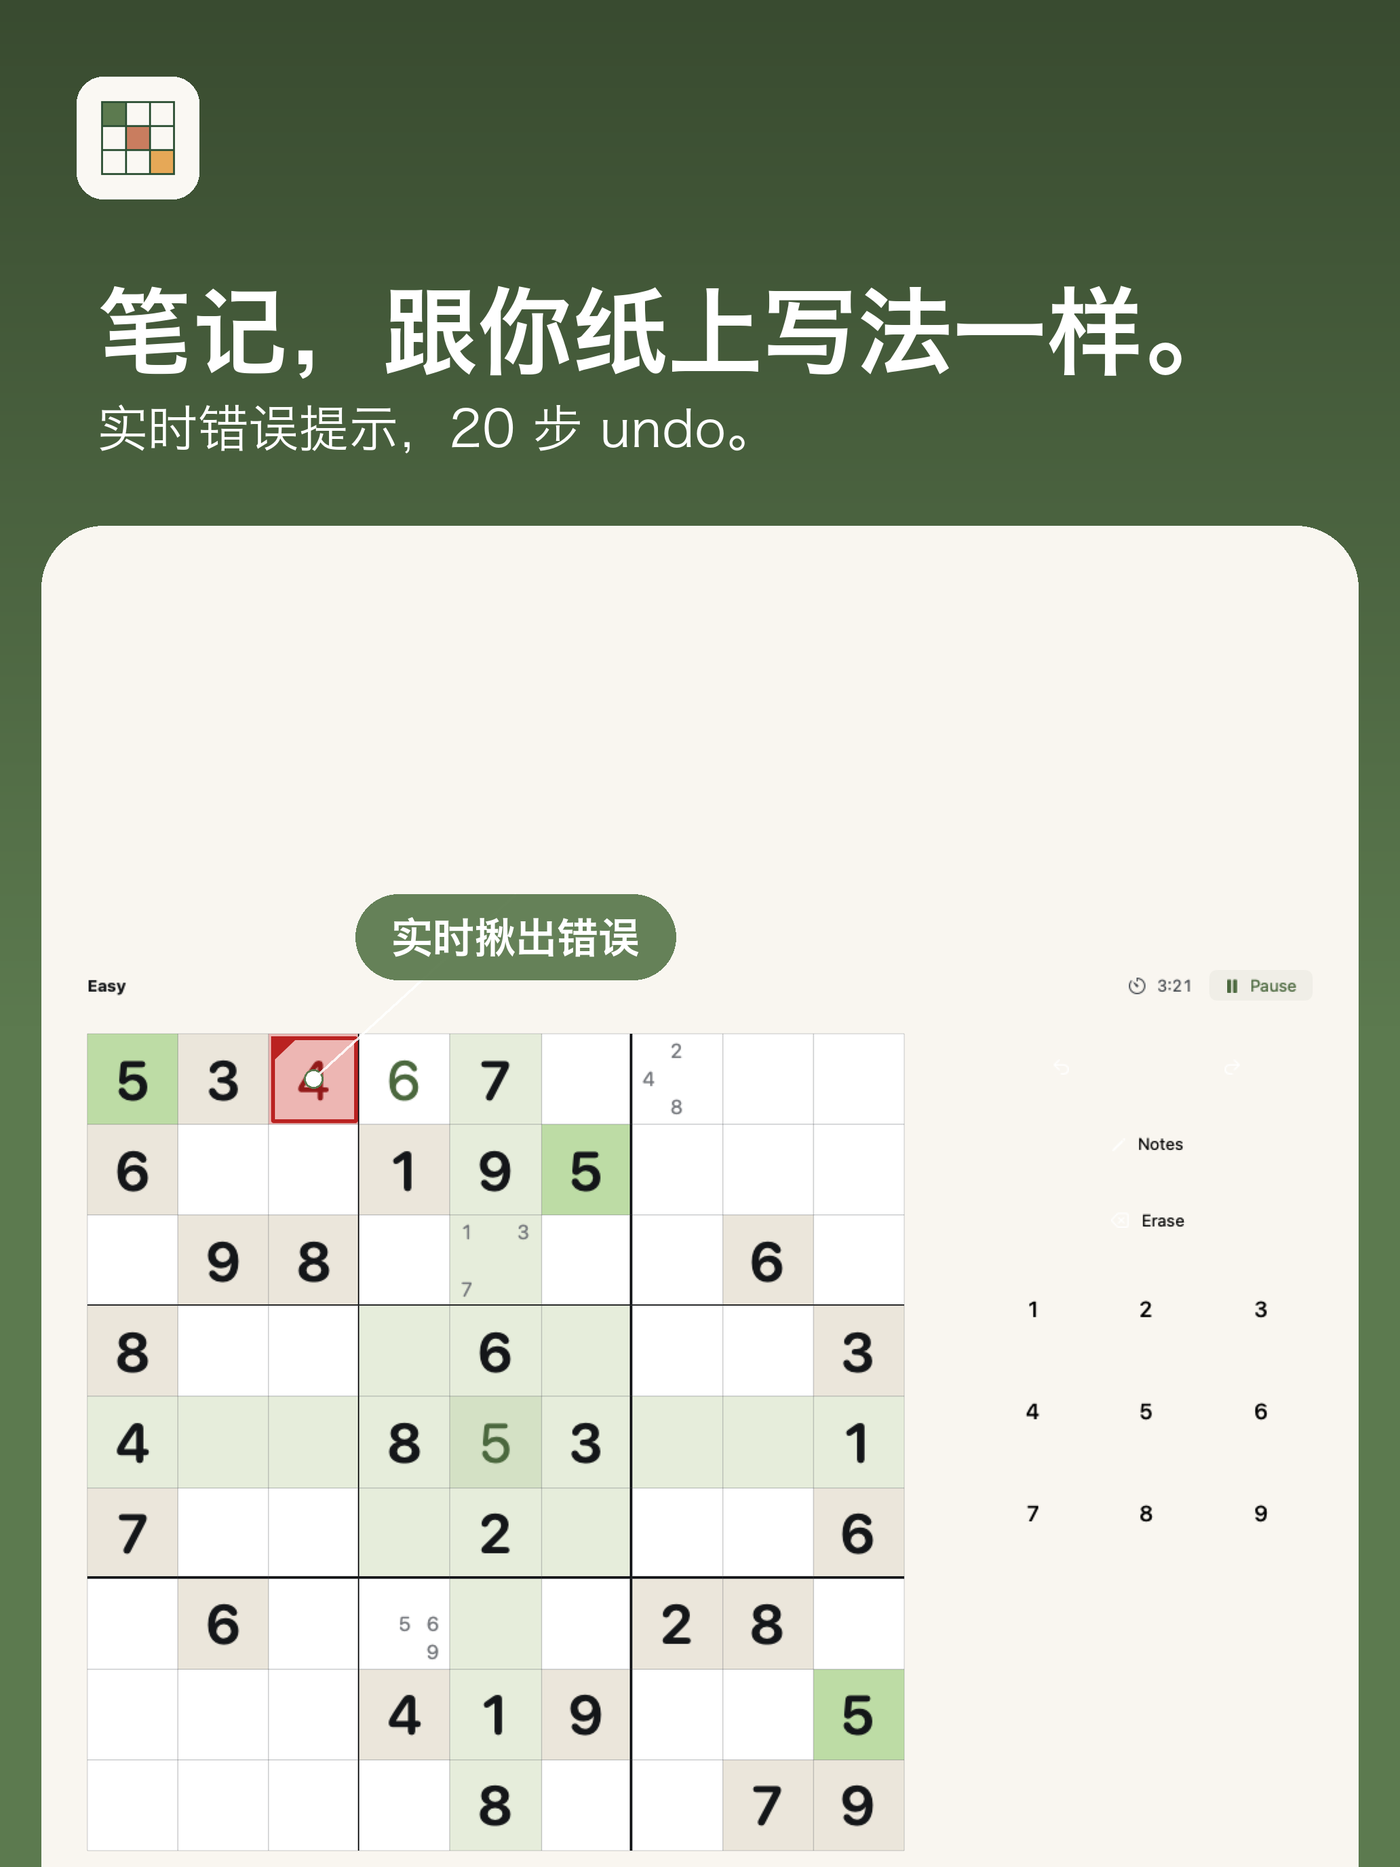
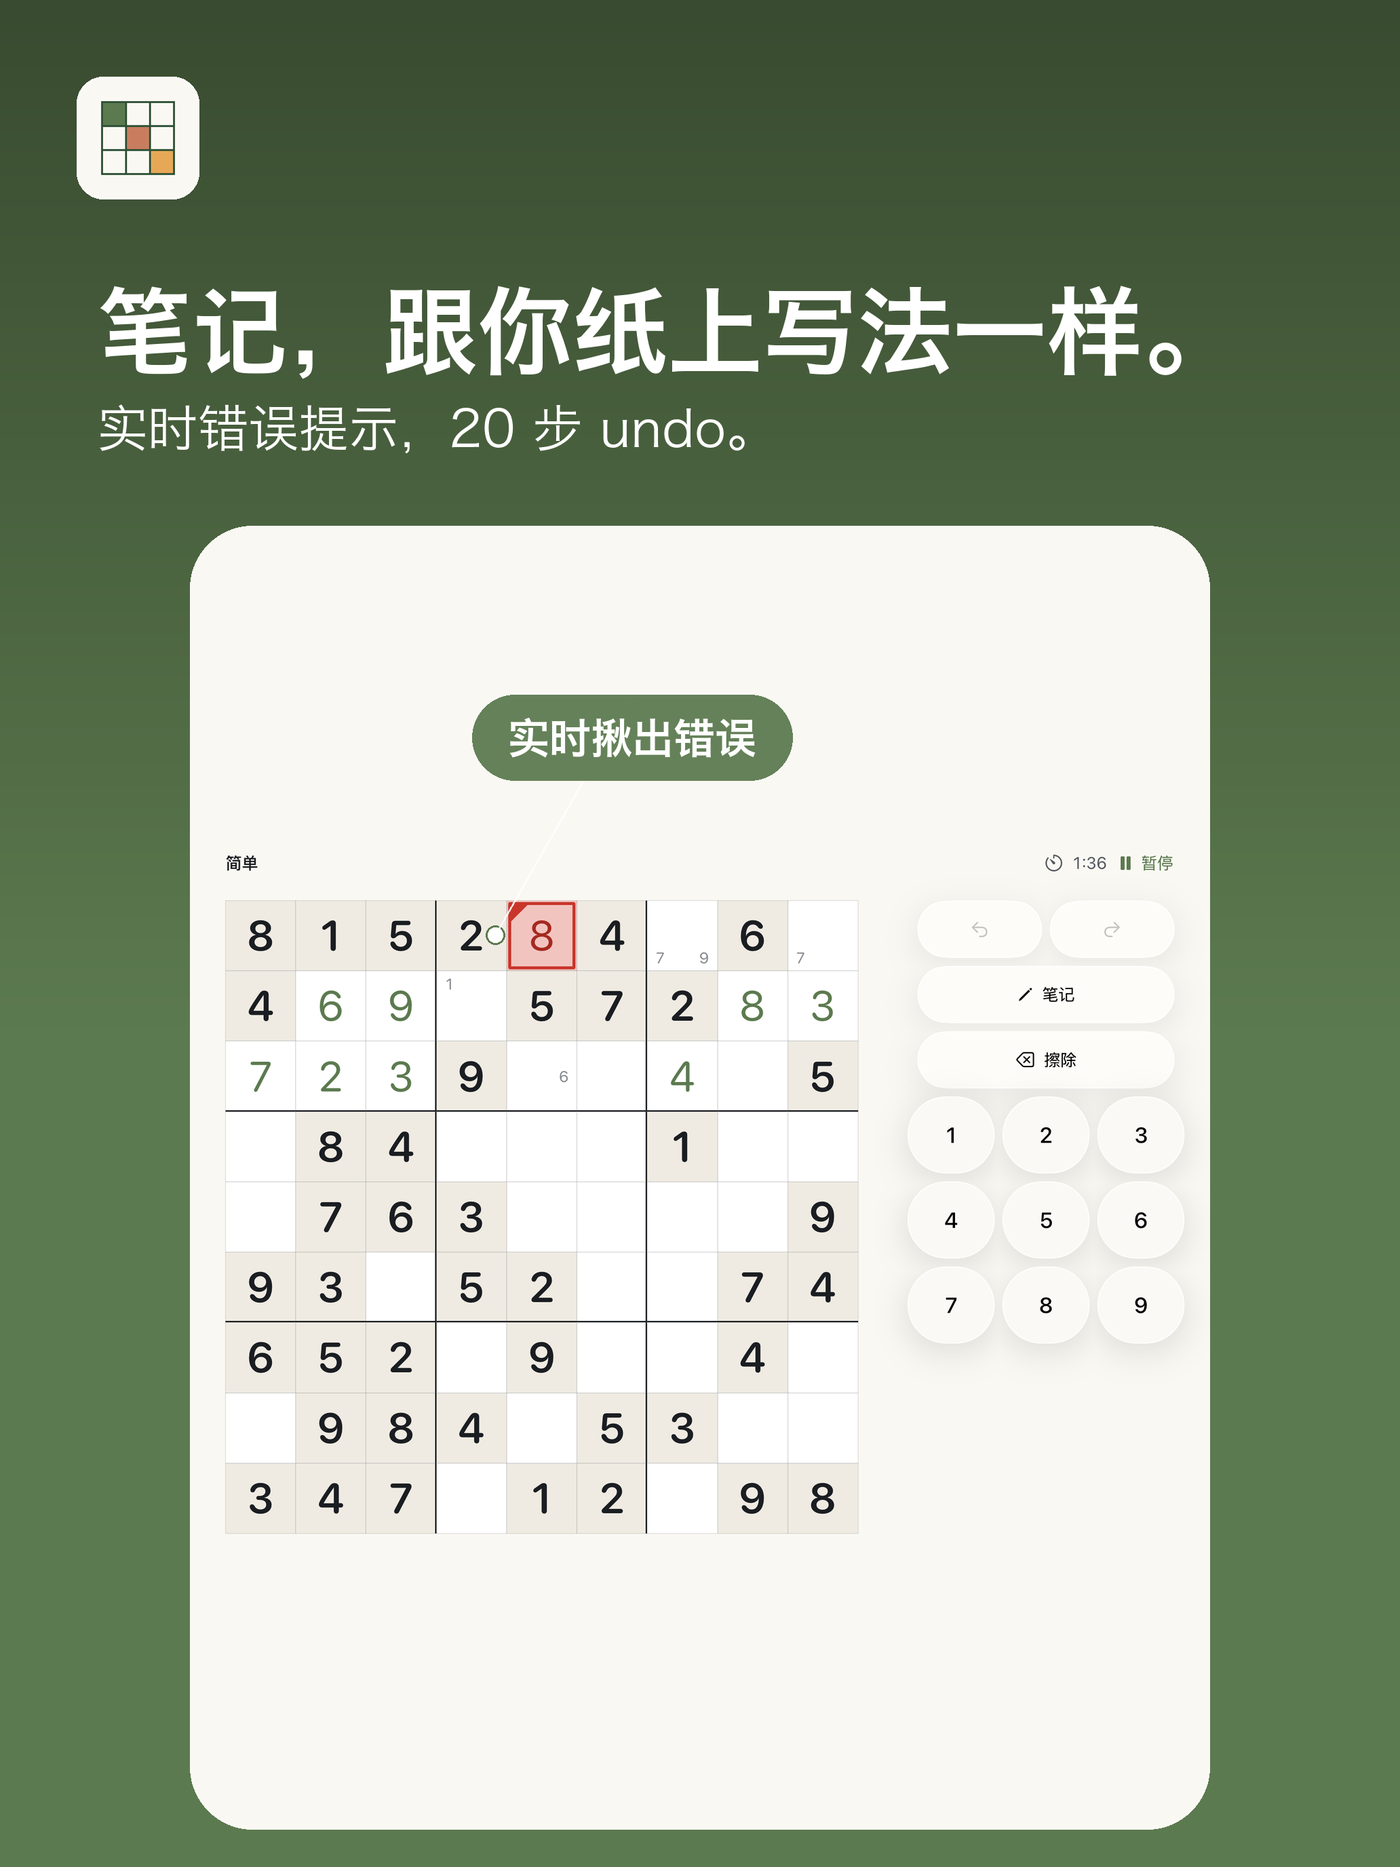
wip(store): fit-height compositor for capture-sourced 03-board (#1054)
Adds CaptureSlot to scripts/build-ascspec-screenshots.py alongside Slot,
repoints sudoku iphone-6.9/ipad-13 and minesweeper iphone-6.9 03-board at
CaptureSlot (docs/app-store/captures/...), keeps minesweeper ipad-13 and
both mac 03-board slots on the snapshot Slot with explanatory comments
(pending #1054 tolerant publish vs #1054-affected per PM ruling).

build_asc_image gains source_kind="capture": fit-height scale (never
crops, may upscale), all 4 corners rounded, pasted at SCREEN_TOP — lands
the whole capture (already safe-area-cropped by mise-tasks/store/capture)
inside the canvas so the glass control cluster is never pushed past the
canvas edge. Verified byte-identical sha256 for all 147 non-03-board
frames across two full regenerations (168 total frames, exactly 21
changed both times).

CALLOUTS for the 3 affected (app,device) 03-board cells re-measured
against the new capture source (pixel-scanned anchor + chip target
coordinates, documented inline) and eyeballed across all 7 locales via
contact sheets — control cluster (digit pad + undo/redo/pencil/erase on
iPhone/iPad Sudoku, Reveal pill on Minesweeper iPhone) fully visible in
every locale, no chip/grid overlap.

part of #1054
part of #1014

WIP checkpoint: gates (store_baseline_orphans, store_frame_drift),
mise-tasks/store/screenshots MAP repoint, docs (screenshot-strategy.md +
skill + CLAUDE.md), negative gate tests, and evidence writeup are NOT
done yet — next steps for the resumed session.
[…]

diff --git a/scripts/build-ascspec-screenshots.py b/scripts/build-ascspec-screenshots.py
@@ -327,22 +327,36 @@ COPY = {
 # eyeballing both baselines, not guessed.
 CALLOUTS = {
     ("sudoku", "03-board"): [{
-        # Anchor dot = the red error cell (row0,col2) — the actual thing
-        # "catches mistakes instantly" refers to. The OLD default (chip
-        # dropped straight below the dot) landed on row2's live "9"/"8"
-        # cells. A first `chip_at` attempt tried the empty block at
-        # columns 6-8 — that's real empty grid space, but the chip's own
-        # width (measured: ~42% of canvas width for the longest label) means
-        # centering it there pushes past the right margin, and the margin
-        # clamp in draw_callout_chip then drags it back LEFT onto the very
-        # cells being avoided. Fixed target instead: the empty gap in the
-        # HEADER ROW above the grid, between "Easy" and the timer/pause
-        # controls — measured directly (column-scan for non-background
-        # pixels in that row) at 56%/76% of the baseline's own width on
-        # iPhone/iPad respectively, comfortably wider than the chip in every
-        # locale, so no clamp ever engages.
-        "anchor": {"iphone-6.9": (0.295, 0.180), "ipad-13": (0.207, 0.315)},
-        "chip_at": {"iphone-6.9": (0.403, 0.112), "ipad-13": (0.360, 0.210)},
+        # #1054: RE-MEASURED against the live-capture source
+        # (docs/app-store/captures/sudoku/{iphone-6.9,ipad-13}/en/03-board.png,
+        # the `board:showcase` DEBUG route), which replaced the
+        # BoardViewPencilNotesTests snapshot this callout used to be measured
+        # against — same idea (anchor on the red error cell, chip in open
+        # space above the grid), new numbers, since the two sources don't
+        # share layout/content. Anchor dot = the red error-highlighted cell,
+        # found by scanning for reddish pixels
+        # (row bbox 592-728 x 280-416 px of a 1320x2568 iPhone capture;
+        # 644-778 x 761-896 px of a 2064x2637 iPad capture).
+        #
+        # Chip target — iPhone: the empty gap in the HEADER ROW between
+        # "Easy" and the timer/pause controls (x=159-918 of 1320, 62% of
+        # width), vertically centered on that row — plenty of clearance to
+        # the grid below on this device.
+        #
+        # Chip target — iPad: NOT the header row. The iPad capture has a
+        # much taller top margin (header floats ~27% down the capture, not
+        # near the top), but the header-to-grid gap itself is only ~45px in
+        # canvas pixels once scaled — too tight for the chip's own ~136px
+        # height (measured: chip at the header's vertical center visibly
+        # overlapped the grid's first row, caught by eyeballing this exact
+        # locale/device per item C). Placed instead in the LARGE empty
+        # panel band above the header (canvas y 753-1243 of a 1943px-tall
+        # panel, i.e. fy 0-0.253 of capture height, well clear of both the
+        # header text and the grid), horizontally still centered in the
+        # "Easy"...pause-controls gap (x=146-1706 of 2064, 76% of width) so
+        # the leader line still reads as pointing at the same row.
+        "anchor": {"iphone-6.9": (0.500, 0.136), "ipad-13": (0.345, 0.314)},
+        "chip_at": {"iphone-6.9": (0.408, 0.043), "ipad-13": (0.449, 0.130)},
         "en": "Catches mistakes instantly", "zh-Hant": "即時抓出錯誤", "zh-Hans": "实时揪出错误",
         "ja": "ミスをその場で検出", "ko": "실수를 즉시 잡아냄",
         "es": "Detecta errores al instante", "th": "จับข้อผิดพลาดได้ทันที",
@@ -366,16 +380,19 @@ CALLOUTS = {
         "es": "Tu tiempo y tus errores", "th": "เวลาและจำนวนที่พลาดของคุณ",
     }],
     ("minesweeper", "03-board"): [{
-        # iPad: the default below-anchor drop landed the chip on the covered
-        # grid tiles. `chip_at` moves the chip into the right-hand
-        # control column, well below the Reveal button (both measured off
-        # the baseline: grid's own right edge, and the button's bottom
-        # edge). fx is deliberately far enough right that draw_callout_chip's
-        # own margin clamp is what places it (any fx past ~0.83 clamps to
-        # the same spot) — the clamped position clears the grid's right edge
-        # with room to spare. iPhone's anchor already has clear space
-        # directly below it (verified — the stacked-controls layout puts the
-        # grid much lower on that device), so it keeps the default drop.
+        # iPad stays sourced from the snapshot baseline (pending #1054
+        # tolerant publish — see the SLOTS comment) so ITS anchor/chip_at/
+        # chip_max_w below are UNCHANGED, still measured against that
+        # baseline. iPhone's `anchor` below is #1054 RE-MEASURED against the
+        # live-capture source
+        # (docs/app-store/captures/minesweeper/iphone-6.9/en/03-board.png,
+        # the `board:showcase` DEBUG route) — same flag-counter target as
+        # before (top-left "🚩 7"), new coordinates because the capture's own
+        # header geometry differs slightly from the old snapshot's (bbox
+        # 55-148 x 88-131 px of a 1320x2568 capture). Still keeps the default
+        # below-anchor chip drop: the grid starts much lower on this capture
+        # than on the old baseline, so there is if anything MORE clear space
+        # below the anchor than before.
         #
         # `chip_max_w` (iPad only): the "room to spare" comment above was
         # verified against `en`'s 662px-wide chip only. Re-verifying every
@@ -390,7 +407,7 @@ CALLOUTS = {
         # fixed-position UI element rather than dropping it into open canvas)
         # needs a `chip_max_w` sanity check as a matter of course, not just
         # the slot someone happens to be touching that round.
-        "anchor": {"iphone-6.9": (0.092, 0.045), "ipad-13": (0.700, 0.016)},
+        "anchor": {"iphone-6.9": (0.077, 0.043), "ipad-13": (0.700, 0.016)},
         "chip_at": {"ipad-13": (0.850, 0.200)},
         "chip_max_w": {"ipad-13": 0.30},
         "en": "Flag suspected mines", "zh-Hant": "標記可疑地雷", "zh-Hans": "标记可疑地雷",
@@ -475,13 +492,37 @@ class Slot:
         return baselines_root / self.suite_dir / f"{self.prefix}.{self.named}.png"
 
 
+class CaptureSlot:
+    """A slot sourced from a live-simulator capture (#1054) instead of a
+    snapshot-test baseline — `mise run store:capture` publishes these,
+    already cropped of device safe-area bands, to
+    docs/app-store/captures/<app>/<device>/<locale>/<name>.png. Unlike
+    `Slot`, the source PNG is per-locale (a snapshot baseline never
+    localizes — see the "per-locale-baseline variant" comment above — but a
+    live capture genuinely renders each locale's own strings), so
+    `rel_path_template` carries a `{locale}` placeholder instead of a fixed
+    suite/named/prefix triple."""
+
+    __slots__ = ("name", "rel_path_template")
+
+    def __init__(self, name: str, rel_path_template: str):
+        self.name = name
+        self.rel_path_template = rel_path_template
+
+    def path_for(self, locale: str) -> Path:
+        return REPO_ROOT / self.rel_path_template.format(locale=locale)
+
+
 SLOTS = {
     "iphone-6.9": {
         "sudoku": [
             Slot("01-home", "ProgressScreenTests", "ProgressScreen-iPhone-light-store", "snapshotStoreIPhoneLight"),
             Slot("02-daily", "DailyHubViewTests", "DailyHub-iPhone-light-allDone", "snapshotAllCompletedIPhoneLight"),
-            Slot("03-board", "BoardViewPencilNotesTests", "Board-iPhone-light-pencilNotesWithError",
-                 "snapshotPencilNotesWithError_iPhone_light"),
+            # #1054 Fork B: sourced from a live-simulator capture (glass
+            # renders correctly there; the snapshot host cannot render
+            # Liquid Glass at all — see the issue). mise run store:capture
+            # publishes this file, already cropped of safe-area bands.
+            CaptureSlot("03-board", "docs/app-store/captures/sudoku/iphone-6.9/{locale}/03-board.png"),
             Slot("04-completion", "CompletionViewTests", "Completion-iPhone-light-loaded",
                  "snapshot_authenticatedLoaded_iPhoneLight"),
             Slot("05-settings", "SettingsViewTests", "SettingsView-fullpage-iPhone-light-purchased",
@@ -490,8 +531,8 @@ SLOTS = {
         "minesweeper": [
             Slot("01-home", "ProgressScreenTests", "ProgressScreen-iPhone-light-store", "snapshotStoreIPhoneLight"),
             Slot("02-daily", "MinesweeperDailyHubSnapshotTests", "Daily-iPhone-light-loaded", "snapshotLoaded_iPhone_light"),
-            Slot("03-board", "MinesweeperBoardRevealedSnapshotTests", "Board-iPhone-light-beginner-flagged",
-                 "snapshotFlagged_iPhone_light"),
+            # #1054 Fork B: see the Sudoku iPhone 03-board comment above.
+            CaptureSlot("03-board", "docs/app-store/captures/minesweeper/iphone-6.9/{locale}/03-board.png"),
             Slot("04-completion", "MinesweeperCompletionSnapshotTests", "Completion-iPhone-light-win-reminder",
                  "snapshotWinDailyReminder_iPhone_light"),
         ],
@@ -500,8 +541,8 @@ SLOTS = {
         "sudoku": [
             Slot("01-home", "ProgressScreenTests", "ProgressScreen-iPad-light-store", "snapshotStoreIPadLight"),
             Slot("02-daily", "DailyHubViewTests", "DailyHub-iPad-light-unfinished", "snapshotUnfinishedIPadLight"),
-            Slot("03-board", "BoardViewPencilNotesTests", "Board-iPad-light-pencilNotesWithError",
-                 "snapshotPencilNotesWithError_iPad_light"),
+            # #1054 Fork B: see the Sudoku iPhone 03-board comment above.
+            CaptureSlot("03-board", "docs/app-store/captures/sudoku/ipad-13/{locale}/03-board.png"),
             Slot("04-completion", "CompletionViewTests", "Completion-iPad-light-loaded",
                  "snapshot_authenticatedLoaded_iPadLight"),
             Slot("05-settings", "SettingsViewTests", "SettingsView-fullpage-iPad-light-purchased",
@@ -511,6 +552,15 @@ SLOTS = {
             Slot("01-home", "ProgressScreenTests", "ProgressScreen-iPad-light-store", "snapshotStoreIPadLight"),
             Slot("02-daily", "MinesweeperDailyHubSnapshotTests", "Daily-iPad-light-allDone",
                  "snapshotAllDone_iPad_light"),
+            # pending #1054 tolerant publish (MS/iPad glass-pill variance):
+            # store:capture cannot converge this cell to a byte-identical
+            # hash across independent relaunches (residual Liquid Glass
+            # rendering jitter on the mode-toggle pill) — stays on the
+            # snapshot baseline until dev-A's region-scoped tolerance ships
+            # (docs/app-store/captures/manifest.json). Do NOT read this as
+            # "#1054-affected" (that label is for the owner-deferred Mac
+            # slots, which have no path forward yet at all); this cell has
+            # one, just not landed.
             Slot("03-board", "MinesweeperBoardSnapshotTests", "Board-iPad-light-beginner-covered",
                  "snapshotBeginnerCovered_iPad_light"),
             Slot("04-completion", "MinesweeperCompletionSnapshotTests", "Completion-iPad-light-win-loaded",
@@ -530,12 +580,16 @@ SLOTS = {
     # path.
     "mac": {
         "sudoku": [
+            # #1054-affected: no simulator on Mac, so this slot has no
+            # live-capture path today (owner-deferred, #1054 done-when 5).
+            # Stays on the snapshot baseline — still glass-less.
             Slot("03-board", "BoardViewTests", "Board-Mac-light-inProgress", "snapshotInProgress_Mac_light"),
             Slot("01-home", "ProgressScreenTests", "ProgressScreen-Mac-light-store", "snapshotStoreMacLight"),
             Slot("05-settings", "SettingsViewTests", "SettingsView-fullpage-mac-light-purchased",
                  "snapshot_mac_light_purchased"),
         ],
         "minesweeper": [
+            # #1054-affected: see the Sudoku mac 03-board comment above.
             Slot("03-board", "MinesweeperBoardRevealedSnapshotTests", "Board-Mac-light-beginner-flagged",
                  "snapshotFlagged_Mac_light"),
             Slot("01-home", "ProgressScreenTests", "ProgressScreen-Mac-light-store", "snapshotStoreMacLight"),
@@ -1023,7 +1077,8 @@ def build_asc_image(baseline_path: Path,
                     callouts: Optional[list[dict]] = None,
                     device: str = "iphone-6.9",
                     slot_name: str = "",
-                    crop_all_sides: bool = False) -> Image.Image:
+                    crop_all_sides: bool = False,
+                    source_kind: str = "baseline") -> Image.Image:
     """
     Compose one ASC-spec RGB PNG at the given canvas size — Direction C
     (full-bleed brand-gradient ground + headline set directly into the color +
@@ -1055,6 +1110,16 @@ def build_asc_image(baseline_path: Path,
     from the actual rendered position/size, not a baseline-fraction lookup
     (see the loop below) — a fixed fx/fy anchor would be wrong as soon as
     crop+scale+center moves the content around.
+
+    `source_kind="capture"` (#1054 Fork B, `CaptureSlot`-sourced 03-board
+    only): the source PNG is a live-simulator capture, already cropped of
+    device safe-area bands at capture time (`mise-tasks/store/capture`) —
+    no `detect_content_*` cropping here, and no upscale cap, so the whole
+    capture (including its full glass control cluster) fits inside the
+    screen band with fit-HEIGHT scaling (`min(width-fill, height-fill)`)
+    instead of width-fill-only. See the branch below for why upscale stays
+    uncapped. Every other slot (`source_kind="baseline"`, the default) is
+    untouched by this branch and must stay byte-identical to before.
     """
     bg_color, accent_color, accent_deep, accent_muted = make_frame(app)
 
@@ -1218,6 +1283,29 @@ def build_asc_image(baseline_path: Path,
         # leaves the leftover gradient below the card instead, where
         # Direction C's callout chip (04-completion) already anchors off
         # the card's own bottom edge with room to spare.
+        paste_y = SCREEN_TOP
+    elif source_kind == "capture":
+        # #1054 Fork B: the capture is already cropped of safe-area bands at
+        # capture time (mise-tasks/store/capture) — no content-bbox
+        # detection here, and unlike crop_all_sides, no upscale cap. Fit
+        # HEIGHT as well as width so the full control cluster (which sits
+        # near the capture's own bottom edge) always lands inside the
+        # canvas instead of being pushed past it by an unconditional
+        # width-fill scale (the defect that motivated this fork — the
+        # committed iPhone 03-board frame cropped the control cluster off
+        # entirely). `available_h` reserves the same small bottom margin
+        # (2% of asc_h) the width-fill branch leaves as breathing room via
+        # CONTENT_PAD_FRAC, so the panel never touches the canvas edge.
+        available_h = asc_h - SCREEN_TOP - int(asc_h * 0.02)
+        scale = min(screen_w / src_w, available_h / src_h_full)
+        fit_w = max(1, round(src_w * scale))
+        fit_h = max(1, round(src_h_full * scale))
+        src_resized = src_full.resize((fit_w, fit_h), Image.LANCZOS)
+        bg_patch = Image.new("RGB", (fit_w, fit_h), bg_color)
+        bg_patch.paste(src_resized, (0, 0), src_resized)
+        mask = Image.new("L", (fit_w, fit_h), 0)
+        ImageDraw.Draw(mask).rounded_rectangle((0, 0, fit_w - 1, fit_h - 1), radius=corner_radius, fill=255)
+        paste_x = SCREEN_MARGIN + (screen_w - fit_w) // 2  # center — may be narrower than screen_w
         paste_y = SCREEN_TOP
     else:
         content_bottom_px = detect_content_bottom(src_full, bg_color)
@@ -1493,7 +1581,10 @@ def generate_all(dry_run: bool = False) -> list[dict]:
                         })
                         continue
 
-                    baseline_path = slot.baseline(baselines_root)
+                    if isinstance(slot, CaptureSlot):
+                        baseline_path = slot.path_for(locale)
+                    else:
+                        baseline_path = slot.baseline(baselines_root)
                     if not baseline_path.exists():
                         results.append({
                             "device": device, "app": app, "slot": slot.name,
@@ -1525,6 +1616,8 @@ def generate_all(dry_run: bool = False) -> list[dict]:
                                 # existed at the time must stay byte-identical to
                                 # what's already uploaded.
                                 crop_all_sides=(slot.name in {"04-completion"}),
+                                # #1054 Fork B: CaptureSlot-sourced 03-board only.
+                                source_kind="capture" if isinstance(slot, CaptureSlot) else "baseline",
                             )
                         img.save(str(out_path), "PNG", optimize=False)
 
